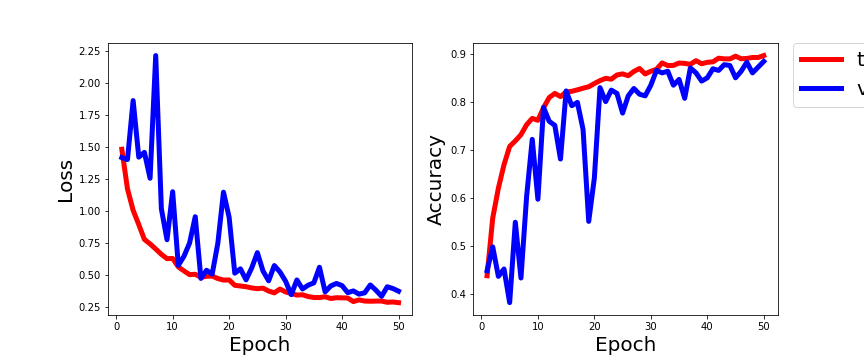
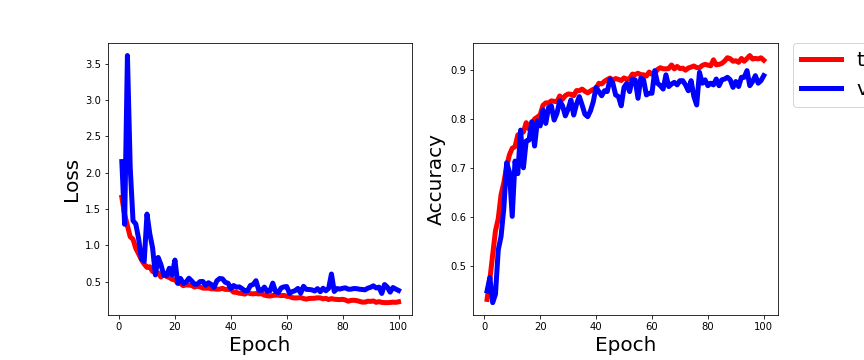
good

diff --git a/train.py b/train.py
@@ -127,13 +127,13 @@ if __name__ == '__main__':
     parser.add_argument('--clip', type=float, default=0.25,
                         help='gradient clipping. (0.25)')
 
-    parser.add_argument('--step_size', type=int, default=10,
+    parser.add_argument('--step_size', type=int, default=20,
                         help='period of learning rate decay. (5)')
 
     parser.add_argument('--gamma', type=float, default=0.5,
                         help='multiplicative factor of learning rate decay. (0.1)')
 
-    parser.add_argument('--num_epochs', type=int, default=50,
+    parser.add_argument('--num_epochs', type=int, default=100,
                         help='the number of epochs. (100)')
 
     parser.add_argument('--batch_size', type=int, default=128,

diff --git a/data_loader.py b/data_loader.py
@@ -41,8 +41,8 @@ def get_dataloader(
         transforms.RandomHorizontalFlip(),
         transforms.RandomRotation((-20, 20)),
         transforms.ToTensor(),
-        transforms.Normalize(mean=[1.0, 1.0, 1.0],
-                             std= [0.3, 0.3, 0.3])])
+        transforms.Normalize(mean=[0.485, 0.456, 0.406],
+                             std=[0.229, 0.224, 0.225])])
 
     face_datasets = {
         phase: FaceDataset(

diff --git a/models.py b/models.py
@@ -7,7 +7,8 @@ class BaseModel(nn.Module):
     
     def __init__(self, num_classes):
         super(BaseModel, self).__init__()
-        model = models.resnet34(pretrained=False)
+        model = models.resnet101(pretrained=False)
+        #model = models.resnet34(pretrained=False)
         num_ftrs = model.fc.in_features
         model.fc = nn.Linear(num_ftrs, num_classes)
         self.model = model
